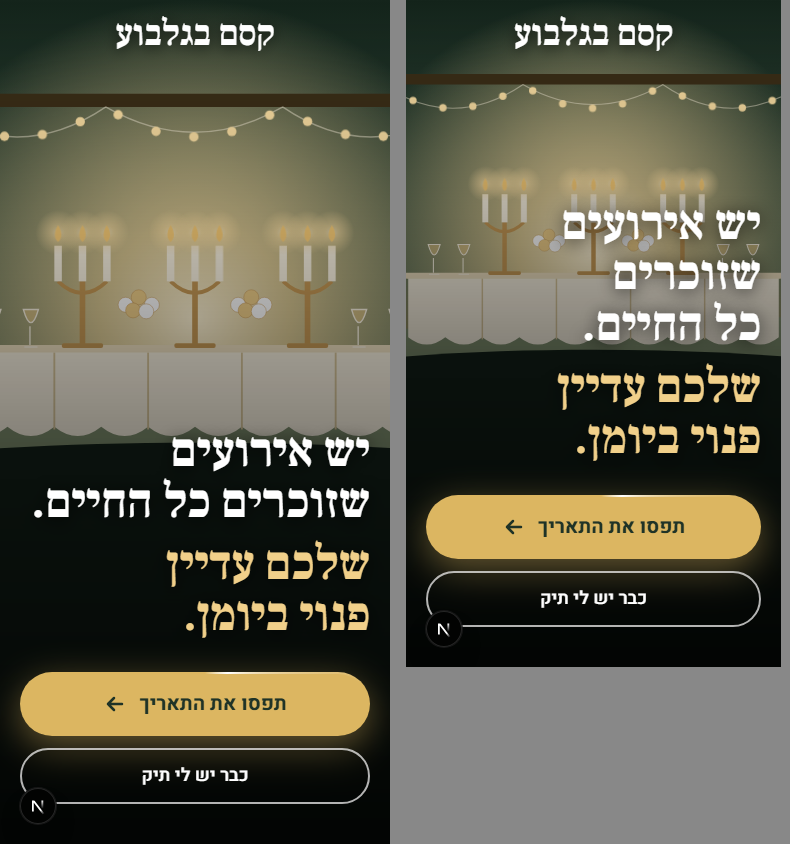
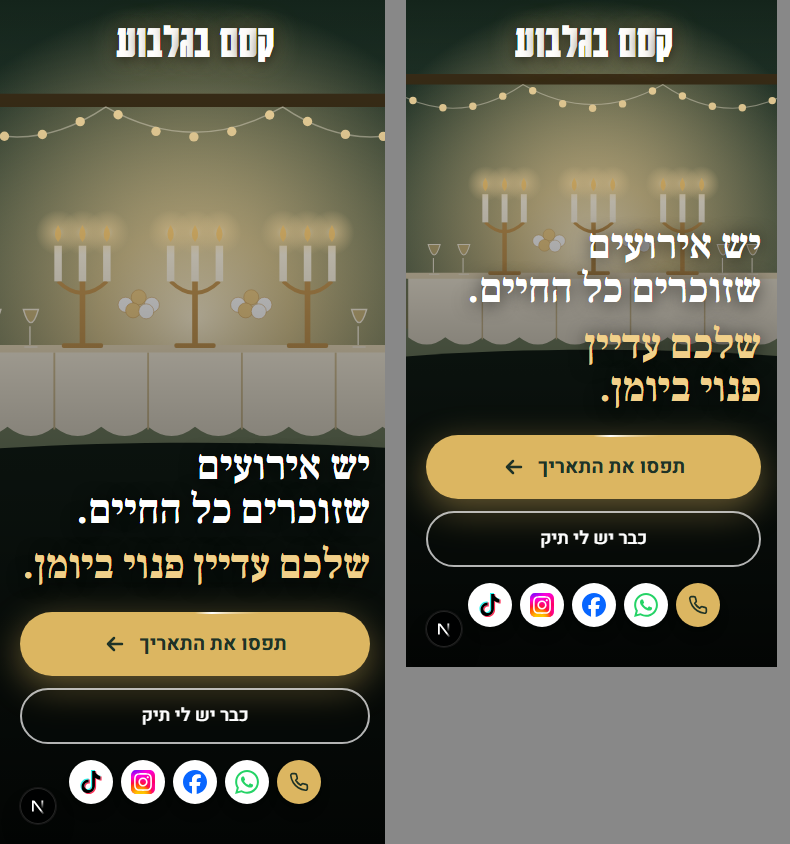
דף הנחיתה: כפתור חיוג וקישורים לוואטסאפ, פייסבוק, אינסטגרם וטיקטוק
- כל פרטי הקשר ב-src/lib/contact.ts. כרגע פיקטיביים: 04-000-0000 אינו מספר תקין, והכתובות מסתיימות ב-.demo
- במחשב בפינות העליונות, בנייד בשורה אחת מתחת לכפתורים
- לוגואים רשמיים מ-svgl.app ב-public/social

diff --git a/src/components/landing/contact.tsx b/src/components/landing/contact.tsx
@@ -1,0 +1,55 @@
+// כפתור חיוג וקישורים לוואטסאפ ולרשתות בדף הנחיתה. הפרטים עצמם ב-src/lib/contact.ts.
+// הלוגואים הרשמיים מ-svgl.app (הספרייה שעליה נשען חיפוש הלוגואים של 21st), בתיקייה public/social.
+import { CONTACT, PHONE_DISPLAY } from "@/lib/contact";
+
+const SOCIAL = [
+  { href: CONTACT.whatsappHref, label: "וואטסאפ", icon: "/social/whatsapp.svg" },
+  { href: CONTACT.facebookHref, label: "פייסבוק", icon: "/social/facebook.svg" },
+  { href: CONTACT.instagramHref, label: "אינסטגרם", icon: "/social/instagram.svg" },
+  { href: CONTACT.tiktokHref, label: "טיקטוק", icon: "/social/tiktok.svg" },
+];
+
+const focusRing = "focus-visible:outline-3 focus-visible:outline-offset-3 focus-visible:outline-white";
+
+/** compact: עיגול עם אייקון בלבד, לנייד, כדי שהחיוג והרשתות ייכנסו בשורה אחת */
+export function PhoneLink({ compact = false }: { compact?: boolean }) {
+  return (
+    <a
+      href={CONTACT.phoneHref}
+      aria-label={`התקשרו אלינו: ${PHONE_DISPLAY}`}
+      className={
+        compact
+          ? `grid size-11 place-items-center rounded-full bg-[#dcb661] text-brand-dark shadow-lg ${focusRing}`
+          : `inline-flex min-h-11 items-center gap-2 rounded-full border border-white/40 bg-black/30 px-4 text-lg font-semibold text-white backdrop-blur-sm transition hover:bg-white hover:text-brand-dark ${focusRing}`
+      }
+    >
+      {/* שפופרת טלפון */}
+      <svg aria-hidden viewBox="0 0 24 24" className="size-5 shrink-0" fill="none" stroke="currentColor" strokeWidth="2" strokeLinecap="round" strokeLinejoin="round">
+        <path d="M22 16.92v3a2 2 0 0 1-2.18 2 19.79 19.79 0 0 1-8.63-3.07 19.5 19.5 0 0 1-6-6 19.79 19.79 0 0 1-3.07-8.67A2 2 0 0 1 4.11 2h3a2 2 0 0 1 2 1.72c.13.96.36 1.9.7 2.81a2 2 0 0 1-.45 2.11L8.09 9.91a16 16 0 0 0 6 6l1.27-1.27a2 2 0 0 1 2.11-.45c.91.34 1.85.57 2.81.7A2 2 0 0 1 22 16.92z" />
+      </svg>
+      {/* ltr: בלי זה, המקפים במספר מתהפכים בתוך טקסט עברי */}
+      {!compact && <span dir="ltr">{PHONE_DISPLAY}</span>}
+    </a>
+  );
+}
+
+export function SocialLinks() {
+  return (
+    <ul className="flex items-center gap-2">
+      {SOCIAL.map((s) => (
+        <li key={s.label}>
+          <a
+            href={s.href}
+            target="_blank"
+            rel="noopener noreferrer"
+            aria-label={`${s.label} (נפתח בחלון חדש)`}
+            className={`grid size-11 place-items-center rounded-full bg-white shadow-lg transition hover:scale-110 motion-reduce:transition-none ${focusRing}`}
+          >
+            {/* eslint-disable-next-line @next/next/no-img-element -- SVG קטן וקבוע, אין צורך באופטימיזציה */}
+            <img src={s.icon} alt="" width={24} height={24} className="size-6" />
+          </a>
+        </li>
+      ))}
+    </ul>
+  );
+}

diff --git a/src/components/landing/landing.tsx b/src/components/landing/landing.tsx
@@ -4,6 +4,7 @@ import Link from "next/link";
 import { homeFor } from "@/lib/auth";
 import type { Profile } from "@/lib/types";
 import { Karantina } from "next/font/google";
+import { PhoneLink, SocialLinks } from "./contact";
 import { TableScene } from "./scenes";
 
 // הגופן של שם האולם: Karantina, צר ודרמטי כמו שלט. מ-Google Fonts עם תמיכה בעברית
@@ -41,9 +42,16 @@ export function Landing({ profile }: { profile: Profile | null }) {
             ),
           )}
         </Link>
+        {/* במחשב: חיוג בפינה הימנית ורשתות בשמאלית, משני צדי שם האולם. בנייד הם מתחת לכפתורים */}
+        <div className="absolute start-5 top-5 hidden md:block lg:start-10">
+          <PhoneLink />
+        </div>
+        <div className="absolute end-5 top-5 hidden md:block lg:end-10">
+          <SocialLinks />
+        </div>
       </nav>
-      <div className="relative mx-auto mt-auto flex w-full max-w-7xl flex-col gap-8 px-5 pb-10 md:px-10 md:pb-14 lg:flex-row lg:items-end lg:justify-between">
-        <h1 className="font-display text-5xl font-bold leading-[1.05] text-balance [text-shadow:0_2px_18px_rgb(0_0_0/0.8)] sm:text-6xl lg:text-[min(6rem,10.5vh)]">
+      <div className="relative mx-auto mt-auto flex w-full max-w-7xl flex-col gap-6 px-5 lg:gap-8 pb-10 md:px-10 md:pb-14 lg:flex-row lg:items-end lg:justify-between">
+        <h1 className="font-display text-[2.6rem] font-bold leading-[1.05] text-balance [text-shadow:0_2px_18px_rgb(0_0_0/0.8)] sm:text-6xl lg:text-[min(6rem,10.5vh)]">
           יש אירועים שזוכרים כל החיים.
           <span className="mt-3 block text-[#f1d08a]">שלכם עדיין פנוי ביומן.</span>
         </h1>
@@ -58,6 +66,10 @@ export function Landing({ profile }: { profile: Profile | null }) {
           <Link href={secondaryHref} className="btn min-h-14 rounded-full border-2 border-white/70 px-8 text-lg font-semibold text-white backdrop-blur-sm hover:bg-white hover:text-brand-dark focus-visible:outline-3 focus-visible:outline-offset-3 focus-visible:outline-white">
             {secondaryLabel}
           </Link>
+          <div className="flex flex-wrap items-center justify-center gap-2 pt-1 md:hidden">
+            <PhoneLink compact />
+            <SocialLinks />
+          </div>
         </div>
       </div>
     </main>

diff --git a/src/lib/contact.ts b/src/lib/contact.ts
@@ -1,0 +1,17 @@
+// פרטי הקשר של האולם, במקום אחד. כרגע הם פיקטיביים, לבקשת המבקש (progress/2026-11-07-2315-landing-contact-links.md).
+// הם נבחרו כך שלא יגיעו לאדם אמיתי: אחרי קידומת 04 לא מתחיל מספר ב-0, והכתובות ברשתות מסתיימות ב-.demo.
+// כדי לעבור לפרטים האמיתיים מחליפים רק את הערכים כאן.
+
+/** המספר כפי שמוצג באתר */
+export const PHONE_DISPLAY = "04-000-0000";
+/** אותו מספר בפורמט בינלאומי, בלי אפס מוביל ובלי מקפים: 972 + 4 + שבע ספרות */
+const PHONE_INTL = "97240000000";
+
+export const CONTACT = {
+  phoneHref: `tel:+${PHONE_INTL}`,
+  // wa.me פותח שיחה בוואטסאפ, באפליקציה או בדפדפן. הטקסט מוכן מראש בשדה ההודעה
+  whatsappHref: `https://wa.me/${PHONE_INTL}?text=${encodeURIComponent("היי, אשמח לשמוע על אירוע בקסם בגלבוע")}`,
+  facebookHref: "https://www.facebook.com/kesem.bagilboa.demo",
+  instagramHref: "https://www.instagram.com/kesem.bagilboa.demo",
+  tiktokHref: "https://www.tiktok.com/@kesem.bagilboa.demo",
+};

diff --git a/progress/2026-11-07-2315-landing-contact-links.md b/progress/2026-11-07-2315-landing-contact-links.md
@@ -1,0 +1,45 @@
+# טלפון וקישורים לרשתות בדף הנחיתה
+
+- **תאריך ושעה:** 2026-11-07 23:15
+- **סוכן:** Claude Code
+- **סטטוס:** הושלמה
+
+## הבקשה
+«תוסיף לי מספר טלפון להתקשר כולל קישור לוואצאפ פייסבוק אינסטגרם וטיקטוק של האולם ובכל הצד הימני לשולחן תמונות של אירועים קודמים מתחלפות כל כמה שניות»
+ואחרי ששאלתי על פרטים אמיתיים: «תעשה הכל פיקטיבי ותוריד את המשימה של התמונות»
+
+## פירוש והנחות
+- בחומרי הפרויקט אין טלפון, רשתות או תמונות של האולם, ולכן הפרטים פיקטיביים, לבקשת המבקש. גלריית התמונות ירדה מהמשימה.
+- הפרטים נבחרו כך שלא יגיעו לאדם אמיתי: 04-000-0000 אינו מספר תקין (אחרי קידומת 04 לא מתחילים ב-0), והכתובות ברשתות מסתיימות ב-`.demo`.
+- כל הפרטים בקובץ אחד, `src/lib/contact.ts`, כדי להחליף אותם בקלות בפרטים האמיתיים.
+
+## דרישה לבדיקה
+- בדף `/` יש קישור חיוג (`tel:`), קישור וואטסאפ (`wa.me`), וקישורים לפייסבוק, לאינסטגרם ולטיקטוק שנפתחים בחלון חדש.
+- לכל קישור יש שם נגיש בעברית, ושטח לחיצה של 44px לפחות.
+- הקישורים נראים במחשב ובנייד, ולא מסתירים את שם האולם או את הכפתורים.
+
+## החלטות
+- הלוגואים הרשמיים מ-svgl.app. חיפוש הלוגואים של 21st (`search_logo`) החזיר תוצאות ריקות גם בבדיקה עם «discord», ולכן הקבצים הורדו ישירות מ-svgl, שהיא הספרייה שעליה החיפוש הזה נשען. נבדק שאין בהם סקריפטים.
+- במחשב: מספר הטלפון בפינה הימנית והרשתות בשמאלית, משני צדי שם האולם.
+- בנייד: עיגול חיוג וארבעת הלוגואים בשורה אחת מתחת לכפתורים. הכותרת בנייד הוקטנה ל-2.6rem, כדי שלא תעלה על השולחן.
+- הקישורים לרשתות נפתחים בחלון חדש (`noopener noreferrer`), ולכל קישור שם נגיש בעברית.
+
+## מסכים
+- `docs/screenshots/landing-table-desktop.png`: הדף במחשב, עם החיוג והרשתות למעלה.
+- `docs/screenshots/landing-table-mobile.png`: הדף ב-390×844 וב-375×667.
+
+## תוצרים
+נבדקו: `tsc`, `npm test` (33 מתוך 33), `npm run build`. בדף `/` יש `tel:+97240000000`, קישור `wa.me` עם הודעה מוכנה, ושלושת הקישורים לרשתות. ארבעת קובצי ה-SVG נטענים. לא נבדקה לחיצה בפועל בטלפון.
+
+## קבצים שנגעו בהם
+- `src/lib/contact.ts`: חדש. כל פרטי הקשר במקום אחד.
+- `src/components/landing/contact.tsx`: חדש. כפתור החיוג והקישורים לרשתות.
+- `src/components/landing/landing.tsx`: מיקום הקישורים, וכותרת קטנה יותר בנייד.
+- `public/social/*.svg`: חדש. הלוגואים של וואטסאפ, פייסבוק, אינסטגרם וטיקטוק.
+- `docs/spec.md`: תיאור הדף הראשי.
+- `docs/screenshots/landing-table-*.png`: צילומים מעודכנים.
+
+## מה נשאר
+- להחליף את הפרטים הפיקטיביים ב-`src/lib/contact.ts` כשיתקבלו פרטים אמיתיים.
+- גלריית התמונות של אירועים קודמים ירדה מהמשימה לבקשת המבקש.
+- קומיט ופוש, כשיתבקשו.

diff --git a/docs/spec.md b/docs/spec.md
@@ -280,7 +280,7 @@ events   1 ──── N agent_messages
 
 | מסך | נתיב | מי רואה | מה יש בו |
 |---|---|---|---|
-| דף נחיתה | `/` | כולם | מסך אחד: איור של שולחן ערוך, הכותרת «יש אירועים שזוכרים כל החיים.» ושני כפתורי CTA (הזמנת תאריך, כניסה לתיק). עודכן 2026-11-07; התיאור והיתרונות הוסרו לבקשת המבקש |
+| דף נחיתה | `/` | כולם | מסך אחד: איור של שולחן ערוך, הכותרת «יש אירועים שזוכרים כל החיים.» ושני כפתורי CTA (הזמנת תאריך, כניסה לתיק). כפתור חיוג וקישורים לוואטסאפ, לפייסבוק, לאינסטגרם ולטיקטוק, מ-`src/lib/contact.ts` (פיקטיביים עד שיתקבלו פרטים אמיתיים). עודכן 2026-11-07; התיאור והיתרונות הוסרו לבקשת המבקש |
 | התחברות / הרשמה | `/login`, `/signup` | אורח | טופס הרשמה: שם, טלפון, מייל, סיסמה |
 | אשף הזמנת אירוע | `/book` | client | 10 שלבים לפי התרשים, עם יומן זמינות ומחיקת טיוטה בחוסר פעילות |
 | האירועים שלי | `/my` | client | כרטיסיות אירוע עם סטטוס |
